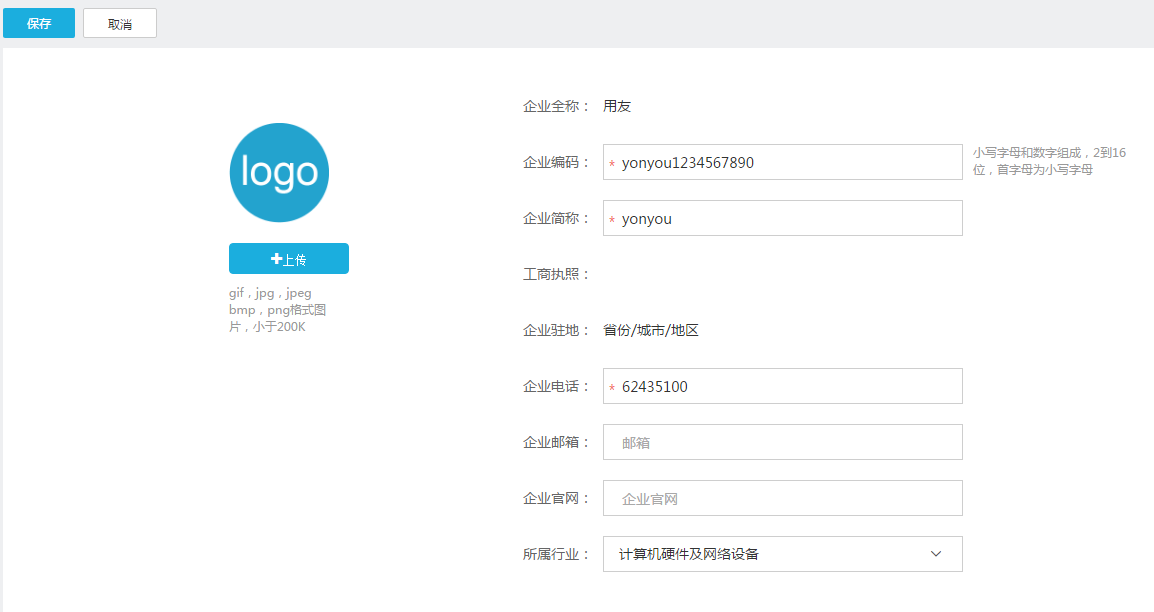
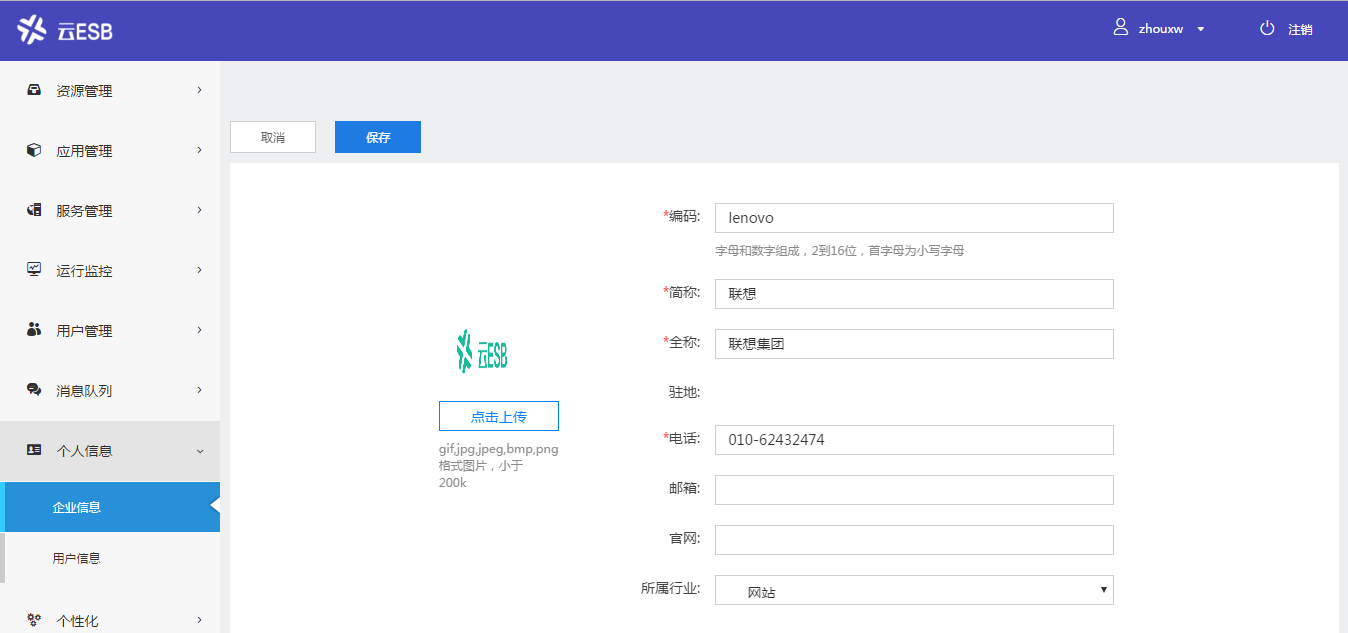
Updates assets/5-/7/image171.png
Auto commit by GitBook Editor

diff --git a/articles/cesb/5-/qi_ye_guan_li.md b/articles/cesb/5-/qi_ye_guan_li.md
@@ -1,12 +1,12 @@
 # 2.7 个人信息
 
-个人信息主要包括企业信息、用户信息和密码安全。
+个人信息主要包括企业信息和用户信息。
 
 ## 2.7.1 企业信息
 
 ### 2.7.1.1 功能介绍
 
-企业信息，可查看企业的基本信息，包括企业名称、企业地址、企业url、企业编码、域名（domain）和创建人等。
+企业信息，可查看企业的基本信息，包括编码、简称、全称、驻地、电话、邮编、官网、所属行业等。
 
 ### 2.7.1.2 界面说明
 
@@ -50,27 +50,7 @@
 
 图2.7‑4 编辑信息
 
-## 2.7.3 密码安全
 
-### 2.7.3.1 功能介绍
-
-密码安全，可修改密码。
-
-### 2.7.3.2 界面说明 
-
-单击【个人信息】→【密码安全】，进入密码安全页面。修改密码如下图所示：
-
-![](/assets/5-/7/image175.png)
-
-图2.7‑5 密码安全
-
-### 2.7.3.3 操作流程
-
-将原密码输入，输入新密码，并确认新密码
-
-![](/assets/5-/7/image176.png)
-
-图2.7‑6 修改密码
 
 
 
